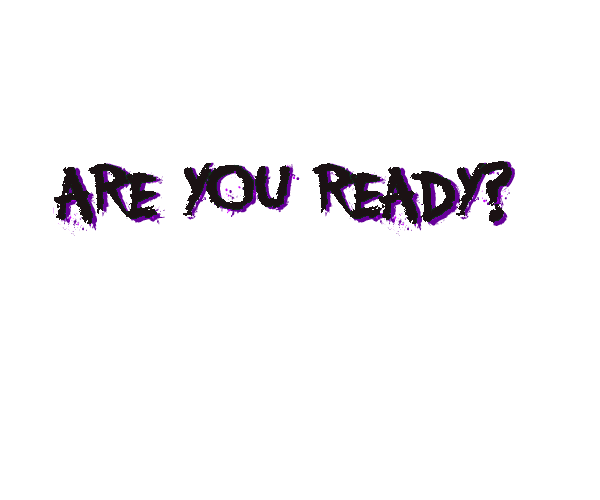
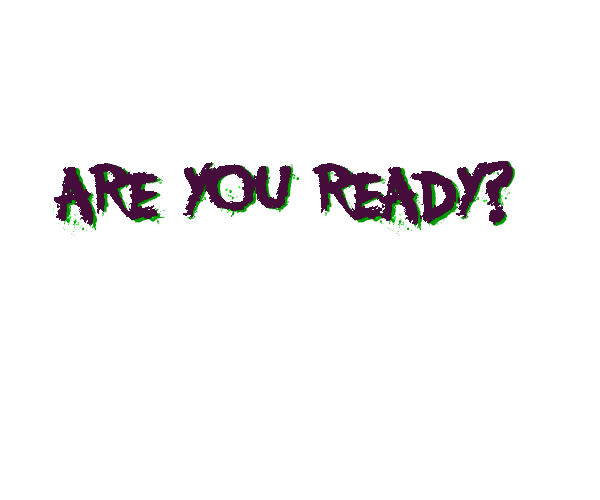
agregando cambios al color de la entrada

Changed region(s): [[0.3, 0.3, 0.87, 0.45], [0.09, 0.33, 0.27, 0.45]]

diff --git a/TP3_Entregable/index.html b/TP3_Entregable/index.html
@@ -53,8 +53,8 @@
               Usa <span><img src="images/down.png" alt="down" id="imgDown"/></span> para agacharte
             </p>
             <button class="brillar-hover" onclick= "window.location.href = 'juego.html'" id="jugar">START</button>
-            <div id="pj">
-            </div>
+            <!-- <div id="pj">
+            </div> -->
             <div>
               <h1>
               <span id="spanB"></span>

diff --git a/TP3_Entregable/css/juego.css b/TP3_Entregable/css/juego.css
@@ -22,6 +22,8 @@ body {
   padding-top: 5em;
   transform: scale(1);
   transition: transform 0.1s;
+  color: #3e143d;
+  text-shadow: 6px 1px 1px #339900;
   width: 100%;
   height: 100%;
   animation: divCount 8s;
